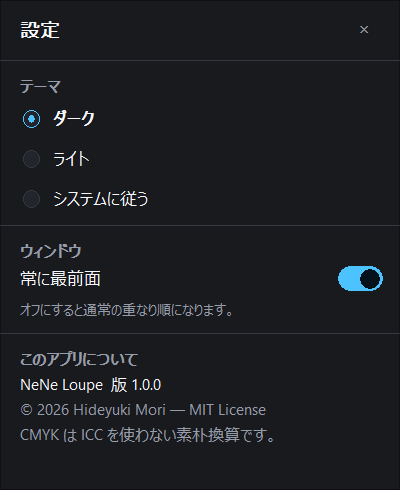
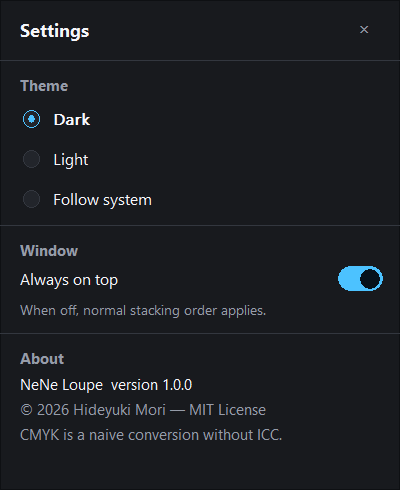
feat(loupe): 利用者に見える文言を英語だけにし、言語の切り替えは持たない (#52) (#53)
Closes #52

目的:

Store では国を限らずに配るので、hide が 2026-10-03
に「アプリの表示を全部英語にする」と決めた。利用者に見える文言を英語に置き換え、
README と Store 掲載用の画像を英語の表示で撮り直す。

使った正典経路:

文言はこれまでと同じ場所（`application` の Frame、`ui/win32` の Renderer、`app`
の起動失敗の文言）に置いたまま置き換えた。
言語を切り替える口は足していない（表示の経路は 1 つのまま。OS の言語は読まない）。画像は `python
eng/capture-readme-images.py` で撮り直した。

規則 ID: ARC-001 / ARC-007 / CPP-002 / QLT-004 / QLT-013 / GIT-001〜004

振る舞い・スキーマの変更:

- 利用者に見える文言が英語になる（設定窓、`Copied` / `Failed`、`No position` / `No
capture`、設定の読み書き失敗、起動失敗のメッセージ、設定窓の題名）。
- コピーの通知の文字の枠を 39 → 45 DIP に広げた（`LoupeLayout::toast_text` の右端 208 →
214）。当たり判定は変えていない。
- 設定スキーマの変更なし。日本語の表示は無くなる（OS の言語で切り替える案は採らなかった）。
- ZIP に入る `README.txt`（日本語の説明書）は変えていない。

検証（実行したコマンドと結果）:

- `pwsh -NoProfile -File ./eng/check.ps1` → 終了0（最終 HEAD
`9f7ced0`）。単体テストの期待値は英語の文言に合わせた。ログは `D:/NeNeLoupe/check-issue52.log`。
- `python eng/capture-readme-images.py` → 終了0。実写 4
枚とも題名照合に成功。続けて実行して、追跡対象の画像が変わらないことを確かめた。
- 実機の画像で確かめた（120 DPI）: 設定窓の英語の文言はどれも枠に収まった。コピーの通知は幅 39 DIP では `Copiec`
に切れ、45 DIP で `Copied` が切れずに出た。
  記録は `docs/quality/gate-proofs.md` 第 14 節。
- `src/` の文字列リテラルに日本語が残っていないことを走査で確かめた。

Waivers: none

残るリスク:

- `Failed`、`No position` / `No
capture`、起動失敗のメッセージボックス、設定の読み書き失敗の文言は、失敗を実機で起こしていないので画面では見ていない。
- コピーの通知は 144 DPI・168 DPI では撮っていない。
- 設計文書（`docs/design/loupe-look.md`）の日本語の文言は設計時のまま残し、冒頭に断りを入れた。
- 確認のために値をクリックしたので、hide のクリップボードが一時的に `#33E699`
になった。文字列の控えから戻した（文字列以外の内容だった場合は戻せていない）。

🤖 Generated with [Claude Code](https://claude.com/claude-code)

diff --git a/src/ui/win32/SettingsRenderer.cpp b/src/ui/win32/SettingsRenderer.cpp
@@ -17,8 +17,8 @@ namespace neneloupe
 {
 namespace
 {
-constexpr std::array<const wchar_t *, SettingsLayout::theme_choices> theme_names{
-    L"ダーク", L"ライト", L"システムに従う"};
+constexpr std::array<const wchar_t *, SettingsLayout::theme_choices> theme_names{L"Dark", L"Light",
+                                                                                 L"Follow system"};
 
 int index_of(Theme theme)
 {
@@ -73,7 +73,7 @@ void SettingsRenderer::render_content(HDC dc, const SettingsFrame &frame, UINT d
     brush.fill(dc, bounds, PaletteRole::background);
     brush.outline(dc, bounds, PaletteRole::border);
     SetTextColor(dc, brush.color(PaletteRole::text));
-    LoupeRenderer::write_text(dc, SettingsLayout::title(dpi), L"設定",
+    LoupeRenderer::write_text(dc, SettingsLayout::title(dpi), L"Settings",
                               LoupeRenderer::font_of(L"Segoe UI", 14, FW_BOLD, dpi));
     SetTextColor(dc, brush.color(PaletteRole::muted_text));
     LoupeRenderer::write_text(dc, SettingsLayout::close_glyph(dpi), L"×",
@@ -90,7 +90,7 @@ void SettingsRenderer::render_theme(HDC dc, const SettingsFrame &frame, UINT dpi
 {
     const PaletteBrush brush(frame.palette());
     SetTextColor(dc, brush.color(PaletteRole::muted_text));
-    LoupeRenderer::write_text(dc, SettingsLayout::theme_label(dpi), L"テーマ",
+    LoupeRenderer::write_text(dc, SettingsLayout::theme_label(dpi), L"Theme",
                               LoupeRenderer::font_of(L"Segoe UI", 12, FW_BOLD, dpi));
     const int selected = index_of(frame.theme());
     for (int index = 0; index < SettingsLayout::theme_choices; ++index)
@@ -117,10 +117,10 @@ void SettingsRenderer::render_layer(HDC dc, const SettingsFrame &frame, UINT dpi
 {
     const PaletteBrush brush(frame.palette());
     SetTextColor(dc, brush.color(PaletteRole::muted_text));
-    LoupeRenderer::write_text(dc, SettingsLayout::window_label(dpi), L"ウィンドウ",
+    LoupeRenderer::write_text(dc, SettingsLayout::window_label(dpi), L"Window",
                               LoupeRenderer::font_of(L"Segoe UI", 12, FW_BOLD, dpi));
     SetTextColor(dc, brush.color(PaletteRole::text));
-    LoupeRenderer::write_text(dc, SettingsLayout::topmost_text(dpi), L"常に最前面",
+    LoupeRenderer::write_text(dc, SettingsLayout::topmost_text(dpi), L"Always on top",
                               LoupeRenderer::font_of(L"Segoe UI", 13, FW_NORMAL, dpi));
     const auto layer = frame.layer();
     const bool on = layer == WindowLayer::topmost;
@@ -137,7 +137,7 @@ void SettingsRenderer::render_layer(HDC dc, const SettingsFrame &frame, UINT dpi
     draw_disc(dc, SettingsLayout::switch_knob(layer, dpi), knob_color, knob_color);
     SetTextColor(dc, brush.color(PaletteRole::muted_text));
     LoupeRenderer::write_text(dc, SettingsLayout::topmost_help(dpi),
-                              L"オフにすると通常の重なり順になります。",
+                              L"When off, normal stacking order applies.",
                               LoupeRenderer::font_of(L"Segoe UI", 11, FW_NORMAL, dpi));
 }
 
@@ -146,16 +146,16 @@ void SettingsRenderer::render_about(HDC dc, const SettingsFrame &frame, UINT dpi
     const PaletteBrush brush(frame.palette());
     const auto body = LoupeRenderer::font_of(L"Segoe UI", 12, FW_NORMAL, dpi);
     SetTextColor(dc, brush.color(PaletteRole::muted_text));
-    LoupeRenderer::write_text(dc, SettingsLayout::about_label(dpi), L"このアプリについて",
+    LoupeRenderer::write_text(dc, SettingsLayout::about_label(dpi), L"About",
                               LoupeRenderer::font_of(L"Segoe UI", 12, FW_BOLD, dpi));
     SetTextColor(dc, brush.color(PaletteRole::text));
     LoupeRenderer::write_text(dc, SettingsLayout::about_version(dpi),
-                              std::wstring(L"NeNe Loupe  版 ") + NENELOUPE_VERSION, body);
+                              std::wstring(L"NeNe Loupe  version ") + NENELOUPE_VERSION, body);
     SetTextColor(dc, brush.color(PaletteRole::muted_text));
     LoupeRenderer::write_text(dc, SettingsLayout::about_copyright(dpi),
                               L"© 2026 Hideyuki Mori — MIT License", body);
     LoupeRenderer::write_text(dc, SettingsLayout::about_cmyk(dpi),
-                              L"CMYK は ICC を使わない素朴換算です。", body);
+                              L"CMYK is a naive conversion without ICC.", body);
     if (frame.status() == SettingsStatus::ok)
     {
         return;

diff --git a/src/app/Main.cpp b/src/app/Main.cpp
@@ -15,16 +15,16 @@ const wchar_t *reason_of(neneloupe::WindowFailure failure)
     switch (failure)
     {
     case neneloupe::WindowFailure::icon_loading_failed:
-        return L"アプリケーションアイコンを読み込めませんでした。";
+        return L"Could not load the application icon.";
     case neneloupe::WindowFailure::registration_failed:
-        return L"ウィンドウクラスを登録できませんでした。";
+        return L"Could not register the window class.";
     case neneloupe::WindowFailure::creation_failed:
-        return L"ウィンドウを作成できませんでした。";
+        return L"Could not create the window.";
     case neneloupe::WindowFailure::capture_exclusion_failed:
-        return L"ルーペ自身を画面の取り込みから除外できませんでした。"
-               L"Windows 10 version 2004 以降が必要です。";
+        return L"Could not exclude the loupe from screen capture. "
+               L"Windows 10 version 2004 or later is required.";
     case neneloupe::WindowFailure::timer_failed:
-        return L"表示を更新するタイマを作成できませんでした。";
+        return L"Could not create the refresh timer.";
     }
     std::unreachable();
 }

diff --git a/src/ui/win32/LoupeRenderer.cpp b/src/ui/win32/LoupeRenderer.cpp
@@ -232,14 +232,14 @@ void LoupeRenderer::render_toast(HDC dc, const LoupeFrame &frame, UINT dpi)
     case CopyState::copied:
         draw_check(dc, LoupeLayout::toast_icon(dpi), brush.color(PaletteRole::accent), dpi);
         SetTextColor(dc, brush.color(PaletteRole::accent));
-        write_text(dc, LoupeLayout::toast_text(dpi), L"コピー",
+        write_text(dc, LoupeLayout::toast_text(dpi), L"Copied",
                    font_of(L"Segoe UI", 12, FW_SEMIBOLD, dpi));
         return;
     case CopyState::failed:
-        // 成功と同じ枠に収める。通知欄は 54 DIP しかないので語は 2 文字に収める。
+        // 成功と同じ枠に収める。通知欄は 60 DIP しかないので語は "Copied" より長くしない。
         draw_cross(dc, LoupeLayout::toast_icon(dpi), brush.color(PaletteRole::warning), dpi);
         SetTextColor(dc, brush.color(PaletteRole::warning));
-        write_text(dc, LoupeLayout::toast_text(dpi), L"失敗",
+        write_text(dc, LoupeLayout::toast_text(dpi), L"Failed",
                    font_of(L"Segoe UI", 12, FW_SEMIBOLD, dpi));
         return;
     }

diff --git a/tests/unit/LoupeTests.cpp b/tests/unit/LoupeTests.cpp
@@ -369,9 +369,9 @@ void verify_updates()
     require(original.format_label() == L"HEX", "format label follows the settings");
     controller.refresh(point);
     require(!controller.frame().sample(), "capture failure removes stale pixels");
-    require(controller.frame().caption() == L"画面取得不可", "capture failure caption");
+    require(controller.frame().caption() == L"No capture", "capture failure caption");
     controller.refresh(point);
-    require(controller.frame().caption() == L"位置取得不可", "position failure caption");
+    require(controller.frame().caption() == L"No position", "position failure caption");
     controller.refresh(point);
     require(controller.frame().caption() == L"#00010F", "recovery uses fresh data");
     require(original.caption() == L"#FF8000", "previous immutable frame is unchanged");

diff --git a/src/ui/win32/SettingsWindow.cpp b/src/ui/win32/SettingsWindow.cpp
@@ -51,7 +51,7 @@ std::expected<void, WindowFailure> SettingsWindow::initialize()
     const HMONITOR owner_monitor = MonitorFromWindow(owner_, MONITOR_DEFAULTTONEAREST);
     const auto bounds = fit_to_work_area(centered_on_owner(), owner_monitor);
     if (!CreateWindowExW(WindowLayerStyle::extended(controller_.layer()), class_name,
-                         L"NeNe Loupe 設定", WS_POPUP, bounds.left, bounds.top,
+                         L"NeNe Loupe Settings", WS_POPUP, bounds.left, bounds.top,
                          bounds.right - bounds.left, bounds.bottom - bounds.top, owner_, nullptr,
                          instance_, this))
     {

diff --git a/src/application/SettingsFrame.cpp b/src/application/SettingsFrame.cpp
@@ -13,9 +13,9 @@ std::wstring status_caption(SettingsStatus status)
     case SettingsStatus::ok:
         return std::wstring();
     case SettingsStatus::load_failed:
-        return L"設定を読み込めませんでした。既定値で動いています。";
+        return L"Could not load settings. Using defaults.";
     case SettingsStatus::save_failed:
-        return L"設定を保存できませんでした。";
+        return L"Could not save settings.";
     }
     std::unreachable();
 }

diff --git a/eng/verify-window.py b/eng/verify-window.py
@@ -474,7 +474,7 @@ def verify_edge_sampling(window, helper, monitors):
     center_x = virtual_left - 8
     center_y = virtual_top + virtual_height // 2
     move_over_fixture(window, helper, center_x - offset, center_y - offset)
-    await_caption(window, "画面取得不可")
+    await_caption(window, "No capture")
     results.append({
         "virtualDesktop": [virtual_left, virtual_top, virtual_left + virtual_width,
                            virtual_top + virtual_height],

diff --git a/src/application/LoupeFrame.cpp b/src/application/LoupeFrame.cpp
@@ -19,9 +19,9 @@ std::wstring failure_caption(SamplingFailure failure)
     switch (failure)
     {
     case SamplingFailure::position_unavailable:
-        return L"位置取得不可";
+        return L"No position";
     case SamplingFailure::capture_unavailable:
-        return L"画面取得不可";
+        return L"No capture";
     }
     std::unreachable();
 }

diff --git a/src/ui/win32/LoupeLayout.cpp b/src/ui/win32/LoupeLayout.cpp
@@ -77,7 +77,7 @@ RECT LoupeLayout::toast_icon(UINT dpi)
 
 RECT LoupeLayout::toast_text(UINT dpi)
 {
-    return scaled(RECT{169, 7, 208, 25}, dpi);
+    return scaled(RECT{169, 7, 214, 25}, dpi);
 }
 
 RECT LoupeLayout::gear_glyph(UINT dpi)

diff --git a/docs/design/loupe-look.md b/docs/design/loupe-look.md
@@ -8,6 +8,9 @@
 > 由来: 施主（hide）の依頼で起こしたデザイン案（案 A / B / C）のうち、案 B を採ったもの。
 > 元の提案は 3 案の比較と選定理由を含んでいたが、本書は採用した案だけを残す。
 > 参考のプレビューは [loupe-look-preview.html](loupe-look-preview.html)（ブラウザで開く作図）。
+>
+> **表示の文言は Issue #52 で英語になった。** 本書に出てくる日本語の文言（「コピー」「設定」など）は設計時のもので、
+> 実装の文言は `src/` が正本である。寸法の表は、コピー通知の 2 行だけ Issue #52 で更新した。
 
 ## 採用後に確定した値（提案時から変わった点）
 
@@ -86,12 +89,12 @@
 ```
  0                                                                    239
  ┌───────────────────────────────────────────────────────────────────┐ 0
- │  ┌──────────────┐  ┌──┐   [ CMYK ▾ ]   ✓ コピー        ⚙          │
+ │  ┌──────────────┐  ┌──┐   [ CMYK ▾ ]   ✓ Copied        ⚙          │
  │  │  7×7 @ 8倍   │  │色│                                            │
  │  │   56 × 56    │  │板│   0,50,100,0                               │
  │  └──────────────┘  └──┘   ────────────────                        │ 63
  └───────────────────────────────────────────────────────────────────┘
-    4          60  65 81  88            148  154   208  215  237
+    4          60  65 81  88            148  154   214  215  237
 ```
 
 | 要素 | l,t,w,h | 備考 |
@@ -107,9 +110,9 @@
 | 形式チップ | 88,6,60,20 | 塗り + 1 DIP の枠 |
 | チップの文字 | 95,7,42,18 | 左寄せ |
 | チップの ▾ | 135,14,6,4 | 三角形 1 個（`Polygon`） |
-| コピー通知の領域 | 154,6,54,20 | 通常は空。**位置を確保しておく**（表示時にずれない） |
+| コピー通知の領域 | 154,6,60,20 | 通常は空。**位置を確保しておく**（表示時にずれない） |
 | コピー通知のチェック | 154,10,12,12 | |
-| コピー通知の文字 | 169,7,39,18 | 「コピー」 |
+| コピー通知の文字 | 169,7,45,18 | 「Copied」。幅 39 では最後の文字が切れたので 45 にした（Issue #52 の実測） |
 | ギアの当たり箱 | 215,5,22,22 | |
 | ギアの字形 | 218,8,16,16 | |
 | 値の文字 | 88,31,148,27 | 左寄せ |

diff --git a/docs/quality/gate-proofs.md b/docs/quality/gate-proofs.md
@@ -496,3 +496,21 @@ Windows 11 Pro 10.0.26200。モニタは4枚（120 DPIが主、144 DPIが2枚、
 
 **確かめていないこと:** この画像でStoreの審査に足りるか。設定窓の表示は日本語で、見出しは英語である。
 4倍に拡大すると文字の縁にClearTypeの色がそのまま見える。
+
+## 14. 表示を英語にした確認（Issue #52）
+
+2026-10-03、作業木の`build/NeNeLoupe.exe`（Debug・製品の版1.0.0）を主モニタ（120 DPI）で撮って確かめた。Windows 11 Pro 10.0.26200。
+
+| 確かめたこと | 結果 |
+| --- | --- |
+| 設定窓（`python eng/capture-readme-images.py`の実写） | `Settings` / `Theme`（`Dark`・`Light`・`Follow system`）/ `Window`・`Always on top`・説明文 / `About`・版・著作権・CMYKの注記が、どれも枠の中に収まった |
+| コピーの通知・幅39 DIPのまま | `Copied`の最後の文字が切れて`Copiec`に見えた |
+| コピーの通知・幅45 DIP（`LoupeLayout::toast_text`を169..214に） | `Copied`が切れずに出て、ギアとの間に隙間が残った |
+| 実写4枚の採用条件 | 4枚とも、窓の題名がスクリプトの描いた中心画素`#33E699`と一致 |
+
+通知の確認は、値の位置へ左クリックのメッセージを送り、0.25秒後に`PrintWindow`で撮った（探針は`D:/NeNeLoupe/probe/toast-probe.py`・Git対象外）。
+ポインタは動かしていない。クリックで利用者のクリップボードが`#33E699`に書き換わるので、事前に文字列の控えを取り、撮影後に戻した。
+
+**確かめていないこと:** `Failed`（コピー失敗）、`No position`・`No capture`（採取失敗）、起動失敗のメッセージボックス、設定の読み書き失敗の文言は、
+失敗を実機で起こしていないので画面では見ていない。`No capture`と`No position`は単体テストで文字列だけを確かめた。
+`Failed`は`Copied`より幅が狭い（同じ書体での見積もり）。144 DPIと168 DPIでは通知を撮っていない。

diff --git a/README.md b/README.md
@@ -51,7 +51,7 @@ window with `PrintWindow`. Ordinary runs take no arguments; see
   <img src="docs/images/loupe-light.png" width="240"
        alt="The same window in its light theme: the magnified colour grid, the green colour bar, the HEX label and the value #33E699 on a white panel.">
   <img src="docs/images/loupe-settings.png" width="320"
-       alt="The settings window in Japanese: theme options for dark, light and follow the system with dark selected, an always-on-top switch turned on, and the version, copyright and a note that CMYK is a naive conversion.">
+       alt="The settings window: theme options for dark, light and follow the system with dark selected, an always-on-top switch turned on, and the version, copyright and a note that CMYK is a naive conversion.">
 </p>
 
 <p align="center">
